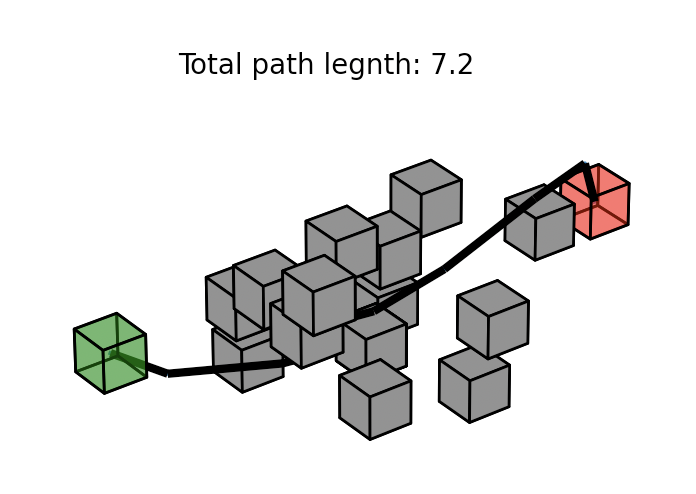
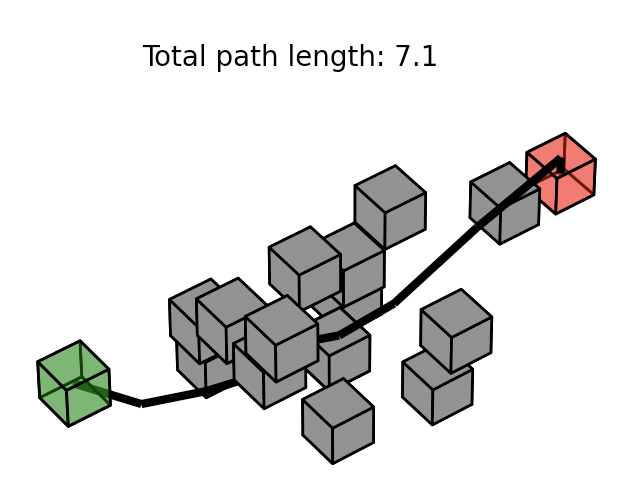
rattstavad bild

Changed region(s): [[0.0601, 0.2429, 0.962, 0.9413], [0.2104, 0.0911, 0.6915, 0.1518]]

diff --git a/krock.py b/krock.py
@@ -120,7 +120,7 @@ def visualize(cubes, path, dist):
     ax.xaxis.pane.set_edgecolor('w')
     ax.yaxis.pane.set_edgecolor('w')
     ax.zaxis.pane.set_edgecolor('w')
-    ax.text2D(0.3, 0.75, "Total path legnth: " + str(round(dist, 1)), transform=ax.transAxes)
+    ax.text2D(0.3, 0.75, "Total path length: " + str(round(dist, 1)), transform=ax.transAxes)
     ax.set_axis_off()
     ax.set(xlim=(-3,3), ylim=(-3,3), zlim=(-2.3,2.3))
     plt.show()

diff --git a/resultat.md b/resultat.md
@@ -1,1 +1,3 @@
 # Coding-challenge-2023-Path-planning
+
+
